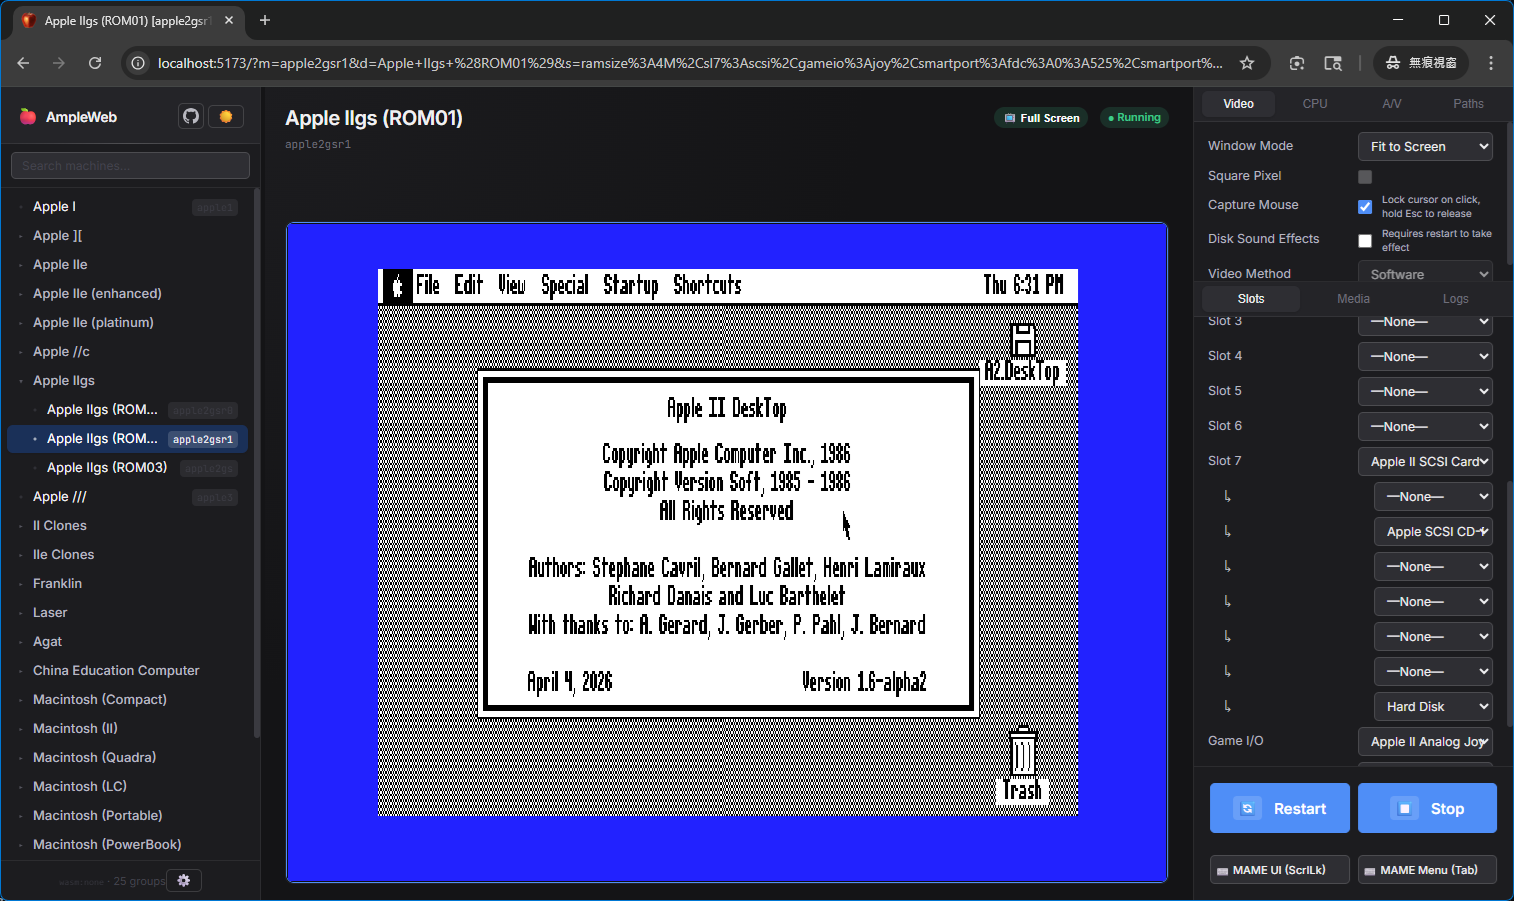
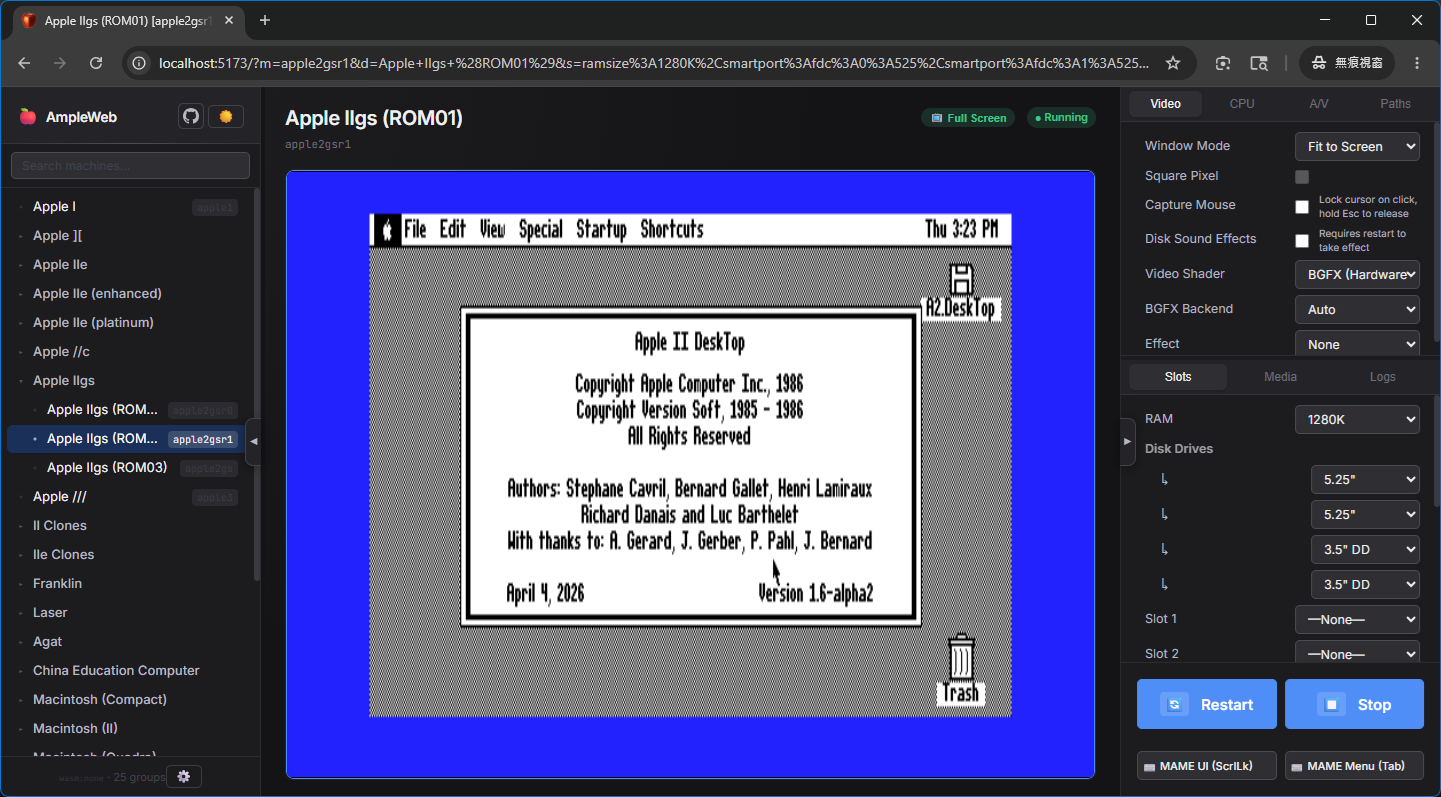
refactor(web): rename UI label Video Method to Video Shader for better UX clarity

diff --git a/AmpleWeb/src/App.tsx b/AmpleWeb/src/App.tsx
@@ -2305,7 +2305,7 @@ function App() {
                         <span className="settings-hint">Requires restart to take effect</span>
                       </div>
                       <div className="slot-row">
-                        <label className="slot-label">Video Method</label>
+                        <label className="slot-label">Video Shader</label>
                         <select
                           className="slot-select"
                           value={videoSettings?.videoMethod || 'soft'}

diff --git a/AmpleWeb/AGENTS.md b/AmpleWeb/AGENTS.md
@@ -3,6 +3,10 @@
 ## Status: Active
 ## Project: AmpleWeb (MAME WASM Frontend)
 
+### 📅 2026-05-21 Updates
+- **UX & Terminology Polish**:
+    - **Rename Video Method to Video Shader**: Rebranded the "Video Method" UI label in the Settings panel to "Video Shader" to align closer with modern user expectations and shader effects, while preserving backend command arguments mapping.
+
 ### 📅 2026-05-20 Updates
 - **Canvas Scaling & Resizing Sync (inexorabletash feedback)**:
     - **Sidebar Dragging Resize Fix**: Resolved the issue where MAME was unaware of layout size changes during manual dragging of sidebars. Added real-time and post-drag `resize` event dispatching (`window.dispatchEvent(new Event('resize'))`) inside left sidebar manual resizing (`isSidebarResizing`) and right config area width dragging (`isConfigResizing`) handlers. This ensures WASM/SDL viewport scaling and coordinates mapping stay perfectly synchronized.
@@ -112,7 +116,7 @@
 - **UI & Feature Overhaul (AmpleWin Parity)**:
     - **Advanced Configuration Tabs**: Fully implemented modular tabs for **Video**, **CPU**, **A/V**, **Paths**, **Slots**, **Media**, and **Logs**.
     - **Video & UX Improvements**:
-        - Integrated **BGFX Video Settings**: Added Video Method selection (Software, BGFX, OpenGL) with BGFX Backend (Auto, GLES, Vulkan) and Effects (CRT-Geom, Scanlines, etc.) support.
+        - Integrated **BGFX Video Settings**: Added Video Shader selection (Software, BGFX, OpenGL) with BGFX Backend (Auto, GLES, Vulkan) and Effects (CRT-Geom, Scanlines, etc.) support.
         - **Window Scaling**: Support for **Window 1x-4x** modes and **Full Screen** (Fit-to-Screen) scaling. Uses **MutationObserver-based Integer Scaling** to ensure pixel-perfect rendering without artifacting.
         - **Collapsible UI**: Fully **Collapsible Sidebars** (Left: Machine list, Right: Settings) with quick-access `☰` and `⚙` toggle buttons.
         - **Mobile Optimized**: Responsive layout that automatically stacks and optimizes for touch devices and small screens.
